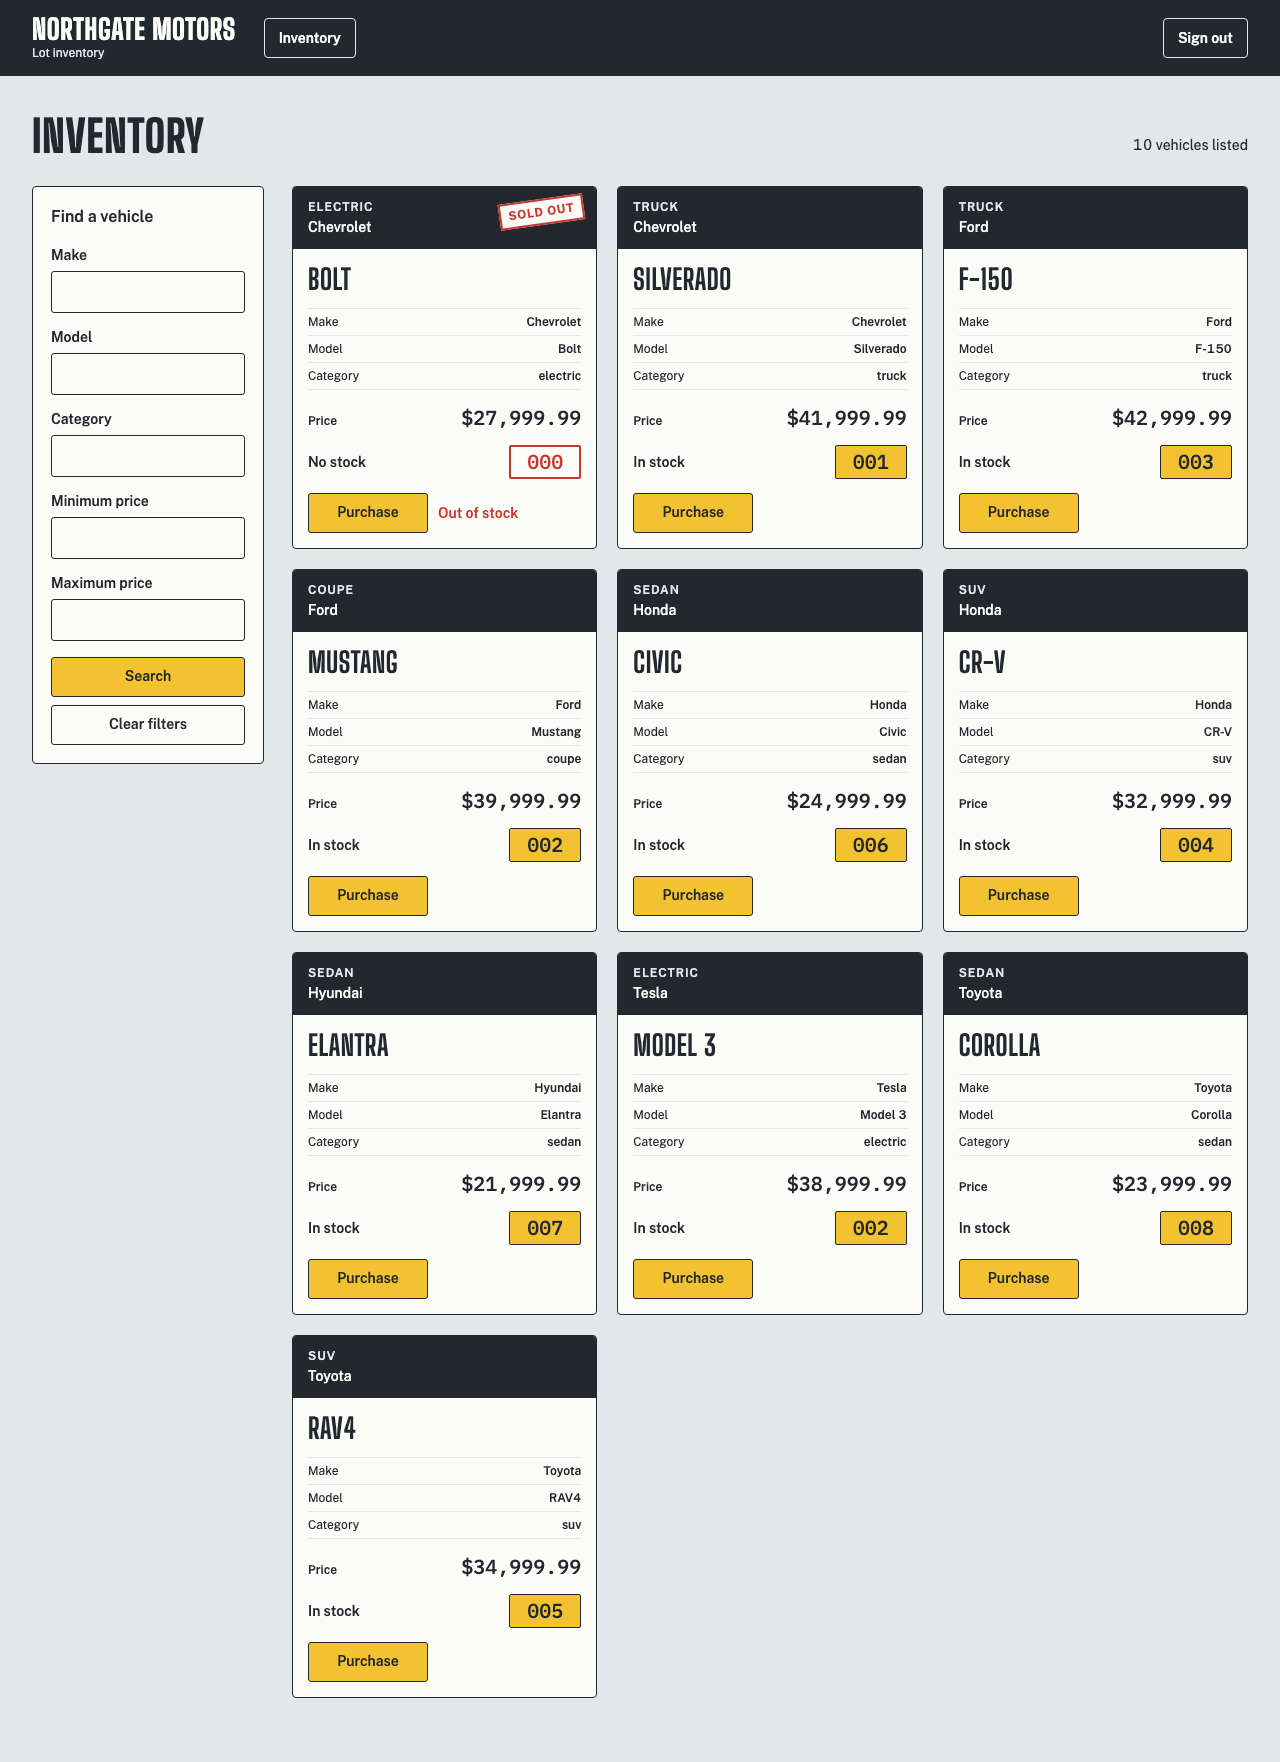
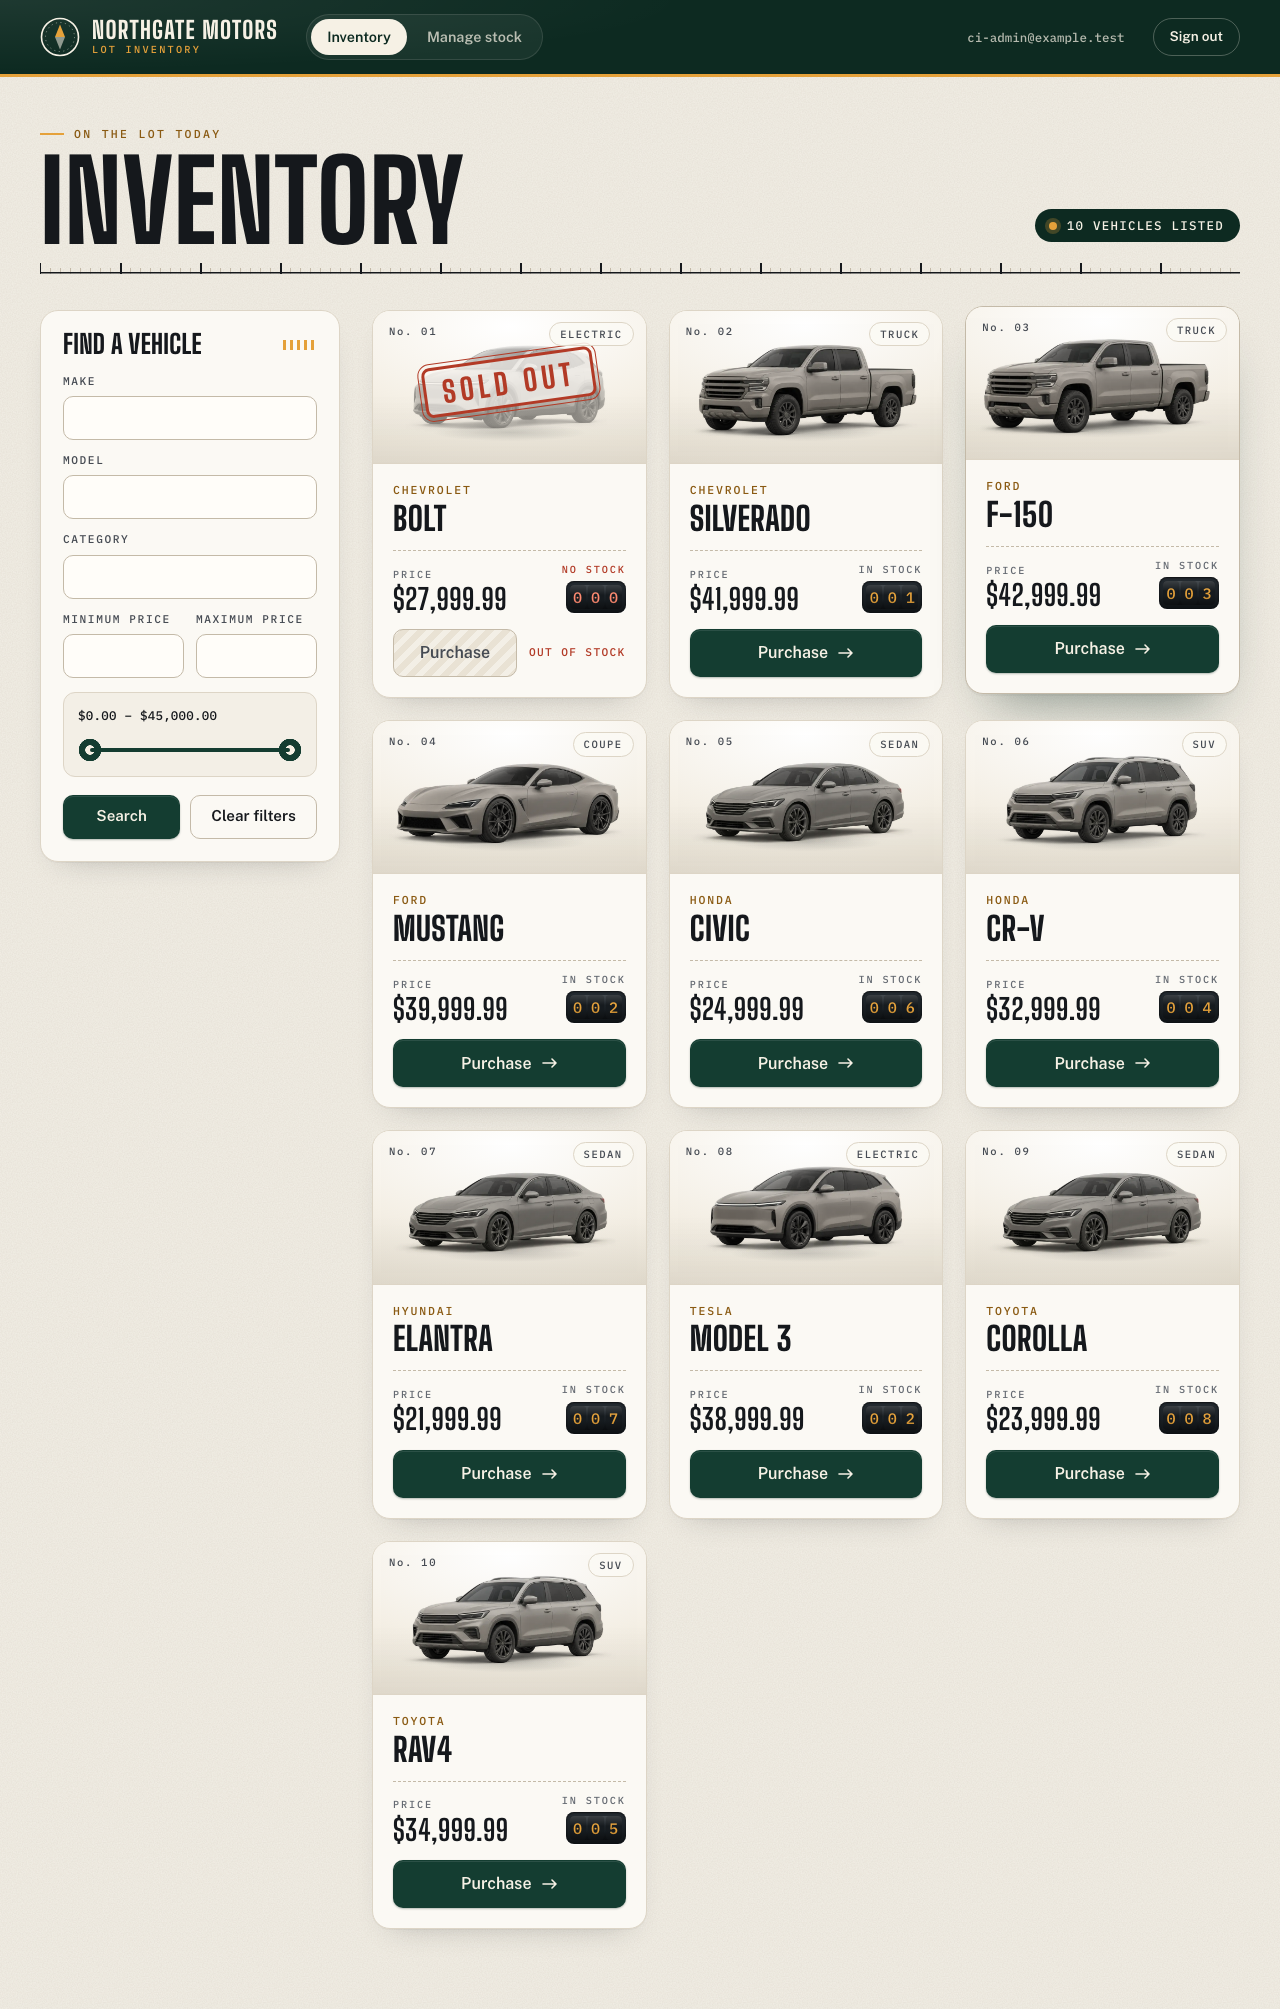
docs: refresh screenshots and test report after the redesign
Replace the four README screenshots with the redesigned screens and
record the current local, Playwright and CI results. Keep the earlier
deployed verification, dated, and update the HANDOVER state.

diff --git a/docs/test-report.md b/docs/test-report.md
@@ -1,30 +1,33 @@
 # Test report
 
-Date: 2026-10-24
-Commit: 38d740a
+Date: 2026-10-25
+Commit: 4e288dc
 
-## Vitest
+## Screenshots
 
-Command: `npm test`
+- Authentication and administration: 1280 × 900; inventory: 1280 px wide, full page; mobile inventory: 390 × 844 CSS px, full page.
+- All four images were opened and checked. Inventory shows 10 demo vehicles; the administration dialog is fully visible.
 
-- Test files: 13 passed.
-- Tests: 148 passed.
+## Local checks
 
-## Playwright
-
-- Local CI mirror: 62 passed across `chromium-desktop` and `webkit-mobile`.
-- Protected Vercel preview with Supabase preview database: 60 passed, 2 skipped. The expired-token case requires the deployment's JWT secret, which is not available to the runner by design.
+- Vitest: 14 files, 165 tests, 0 failures, 0 errors, 0 skipped.
+- Typecheck: passed.
+- Lint: passed.
+- Build: passed.
+- Prettier: passed.
+- Playwright: 70 passed, 0 failed, 0 skipped across `chromium-desktop` and `webkit-mobile`.
 
 ## GitHub Actions
 
-Latest run on `main`: CI run 40045278009.
+Latest run on `main`: CI run 40209842459, success.
 
-- `verify`: passed.
-- `e2e`: passed.
+## Earlier deployed verification (2026-10-24, before the redesign)
 
-## Production
+- Protected Vercel preview with Supabase preview database: 60 passed, 2 skipped. The expired-token case requires the deployment's JWT secret, which is not available to the runner by design.
 
-Controlled verification completed on 2026-10-24 against [the production deployment](https://car-dealership-inventory-phi.vercel.app), deployed from commit 514587b.
+### Production
+
+Controlled verification completed on 2026-10-24 against [the production deployment](https://car-dealership-inventory-phi.vercel.app), deployed from commit eca61dd.
 
 - Result: 10 passed, 0 failed, 0 skipped; chromium-desktop.
 - Fixture vehicles: all removed successfully by teardown.

diff --git a/HANDOVER.md b/HANDOVER.md
@@ -48,7 +48,11 @@
   in-flight guard, 6.81:1 auth segment text contrast, remembered search path, unfiltered admin
   inventory, and filter state preserved across screen changes. 158 unit tests and 70 Playwright
   tests pass; typecheck, lint, build, and Prettier pass.
-- Next (owner): complete `PROMPTS.md` with the redacted raw transcripts (PRD "PROMPTS.md" rule).
+- Redesign merged into `main` and live on production 2026-10-25 (165 unit, 70 e2e tests pass).
+  `PROMPTS.md` now holds the ChatGPT prompts and both owner Claude Code sessions, regenerated by a
+  git-ignored extractor under `_experiments/prompts/` (rerun it before submission).
+- Next (owner): make the repository public, write the "Reflection" in README "My AI Usage".
+  Refresh `docs/screenshots/` and `docs/test-report.md`; both predate the redesign.
 - Fixture users are never deleted by the Playwright teardown (no delete-user route); each
   deployed run leaves `@example.test` accounts behind.
 - Backend/setup review fixes completed 2026-10-25: PUT leaves omitted stock unchanged, edit UI

diff --git a/README.md b/README.md
@@ -4,10 +4,10 @@ Northgate Motors is a car dealership inventory system with account registration 
 
 ## Screenshots
 
-- Authentication: ![Authentication screen](docs/screenshots/auth.png)
-- Inventory: ![Inventory screen](docs/screenshots/inventory.png)
-- Administration: ![Admin screen](docs/screenshots/admin.png)
-- Mobile: ![Mobile layout](docs/screenshots/mobile.png)
+- Authentication, desktop: ![Authentication screen](docs/screenshots/auth.png)
+- Inventory, desktop: ![Inventory screen](docs/screenshots/inventory.png)
+- Administration with the restock dialog: ![Admin screen](docs/screenshots/admin.png)
+- Inventory, mobile: ![Mobile layout](docs/screenshots/mobile.png)
 
 ## Stack
 
